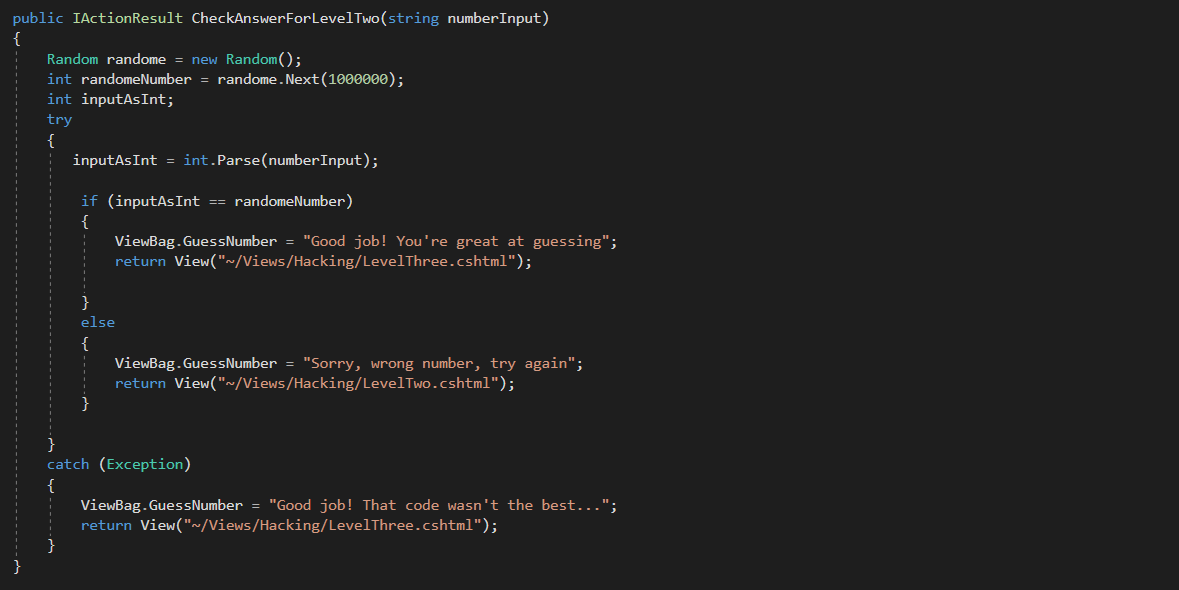
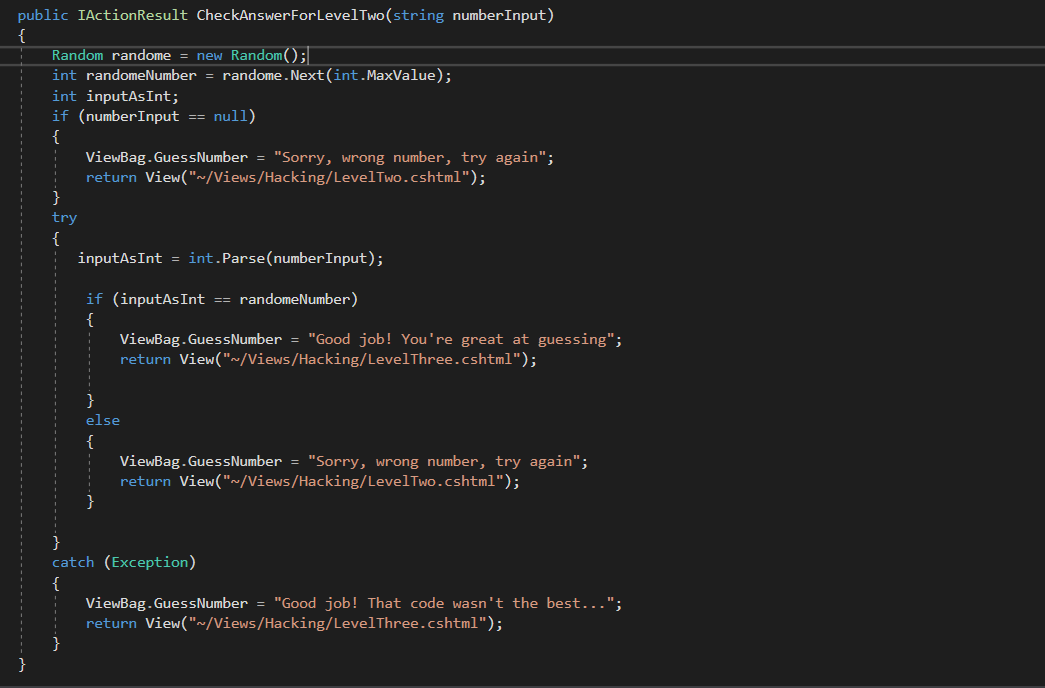
Now with hints

diff --git a/HackingTheWeb/HackingTheWeb/Controllers/HackingController.cs b/HackingTheWeb/HackingTheWeb/Controllers/HackingController.cs
@@ -24,31 +24,32 @@ namespace HackingTheWeb.Controllers
             Login baseLogin = new Login
             {
                 Username = "Admin",
-                Password = password.ToString()
+                SecretPassWord = password.ToString()
             };
             _repo.UpdateDatabaseWithNewPassword(baseLogin);
             _repo.SeedLevelThreePassword();
+
             return View();
         }
 
         [ValidateAntiForgeryToken]
-        public IActionResult CheckPassword(string password)
+        public IActionResult CheckPassword(string SecretPassWord)
         {
             string correctPassword = _repo.GetCorrectPassword();
-            if (password == correctPassword)
+            if (SecretPassWord == correctPassword)
             {
                 return View("~/Views/Hacking/LevelTwo.cshtml");
             }
 
-            Login newLogin = _repo.CheckIfPasswordIsCorrect(password);
+            Login newLogin = _repo.CheckIfPasswordIsCorrect(SecretPassWord);
 
-            if (newLogin.Password == null)
+            if (newLogin.SecretPassWord == null)
             {
                 ViewBag.LoginInfo = "Sorry, wrong password";
             }
             else
             {
-                ViewBag.LoginInfo = $"Good job! here's your reward, the password: {newLogin.Password} ";
+                ViewBag.LoginInfo = $"Good job! here's your reward, the password: {newLogin.SecretPassWord} ";
             }
             return View("~/Views/Hacking/LevelOne.cshtml");
         }
@@ -61,8 +62,13 @@ namespace HackingTheWeb.Controllers
         public IActionResult CheckAnswerForLevelTwo(string numberInput)
         {
             Random randome = new Random();
-            int randomeNumber = randome.Next(1000000);
+            int randomeNumber = randome.Next(int.MaxValue);
             int inputAsInt;
+            if (numberInput == null)
+            {
+                ViewBag.GuessNumber = "Sorry, wrong number, try again";
+                return View("~/Views/Hacking/LevelTwo.cshtml");
+            }
             try
             {
                inputAsInt = int.Parse(numberInput);
@@ -94,7 +100,12 @@ namespace HackingTheWeb.Controllers
 
         public IActionResult LevelThreePassCheck(string password)
         {
-            if (password == _repo.CheckLevelThreePassword())
+            if (password == null)
+            {
+                ViewBag.LevelThree = "Sorry, wrong password";
+                return View("~/Views/Hacking/LevelThree.cshtml");
+            }
+            if (password.ToUpper() == _repo.CheckLevelThreePassword().ToUpper())
             {
                 return View("~/Views/Hacking/LevelFour.cshtml");
             }
@@ -110,6 +121,26 @@ namespace HackingTheWeb.Controllers
             return View();
         }
 
+        public IActionResult LevelFourPassCheck(string passForLevelFour)
+        {
+            if (passForLevelFour == "GoToNextLevel")
+            {
+                return View("~/Views/Hacking/LevelFive.cshtml");
+
+            }
+            else
+            {
+                ViewBag.LevelFour = "Sorry, wrong password";
+                return View("~/Views/Hacking/LevelFour.cshtml");
+
+            }
+
+        }
+
+        public IActionResult LevelFive()
+        {
+            return View();
+        }
 
     }
 }

diff --git a/HackingTheWeb/HackingTheWeb/Services/HackingRepository.cs b/HackingTheWeb/HackingTheWeb/Services/HackingRepository.cs
@@ -38,12 +38,12 @@ namespace HackingTheWeb.Services
 
         }
 
-        public Login CheckIfPasswordIsCorrect(string password)
+        public Login CheckIfPasswordIsCorrect(string SecretPassWord)
         {
             Login login = new Login();
             try
             {
-                string Sql = $"select* from Login WHERE Username = 'Admin' and Password = {password}";
+                string Sql = $"select* from Login WHERE Username = 'Admin' and SecretPassWord = {SecretPassWord}";
                 using (SqlConnection connection = new SqlConnection(conString))
                 using (SqlCommand command = new SqlCommand(Sql, connection))
                 {
@@ -52,7 +52,7 @@ namespace HackingTheWeb.Services
                     if (reader.Read())
                     {
                         login.Username = reader.GetSqlString(0).Value;
-                        login.Password = reader.GetSqlString(1).Value;
+                        login.SecretPassWord = reader.GetSqlString(1).Value;
                     }
                 }
                 return login;
@@ -66,7 +66,7 @@ namespace HackingTheWeb.Services
 
         public string GetCorrectPassword()
         {
-            return _context.Login.SingleOrDefault().Password;
+            return _context.Login.SingleOrDefault().SecretPassWord;
         }
 
         public void SeedLevelThreePassword()
@@ -87,6 +87,7 @@ namespace HackingTheWeb.Services
             LevelThree correctLevelThree = _context.LevelThree.FirstOrDefault();
             return correctLevelThree.PassWord;
         }
+
 
     }
 }

diff --git a/HackingTheWeb/HackingTheWeb/Migrations/20190429082239_changedLoginClass.cs b/HackingTheWeb/HackingTheWeb/Migrations/20190429082239_changedLoginClass.cs
@@ -1,0 +1,37 @@
+using Microsoft.EntityFrameworkCore.Migrations;
+
+namespace HackingTheWeb.Migrations
+{
+    public partial class changedLoginClass : Migration
+    {
+        protected override void Up(MigrationBuilder migrationBuilder)
+        {
+            migrationBuilder.RenameColumn(
+                name: "Password",
+                table: "Login",
+                newName: "SecretPassWord");
+
+            migrationBuilder.CreateTable(
+                name: "LevelFour",
+                columns: table => new
+                {
+                    passForLevelFour = table.Column<string>(nullable: false)
+                },
+                constraints: table =>
+                {
+                    table.PrimaryKey("PK_LevelFour", x => x.passForLevelFour);
+                });
+        }
+
+        protected override void Down(MigrationBuilder migrationBuilder)
+        {
+            migrationBuilder.DropTable(
+                name: "LevelFour");
+
+            migrationBuilder.RenameColumn(
+                name: "SecretPassWord",
+                table: "Login",
+                newName: "Password");
+        }
+    }
+}

diff --git a/HackingTheWeb/HackingTheWeb/Migrations/20190429082239_changedLoginClass.Designer.cs b/HackingTheWeb/HackingTheWeb/Migrations/20190429082239_changedLoginClass.Designer.cs
@@ -4,14 +4,16 @@ using HackingTheWeb.Data;
 using Microsoft.EntityFrameworkCore;
 using Microsoft.EntityFrameworkCore.Infrastructure;
 using Microsoft.EntityFrameworkCore.Metadata;
+using Microsoft.EntityFrameworkCore.Migrations;
 using Microsoft.EntityFrameworkCore.Storage.ValueConversion;
 
 namespace HackingTheWeb.Migrations
 {
     [DbContext(typeof(ApplicationDbContext))]
-    partial class ApplicationDbContextModelSnapshot : ModelSnapshot
+    [Migration("20190429082239_changedLoginClass")]
+    partial class changedLoginClass
     {
-        protected override void BuildModel(ModelBuilder modelBuilder)
+        protected override void BuildTargetModel(ModelBuilder modelBuilder)
         {
 #pragma warning disable 612, 618
             modelBuilder

diff --git a/HackingTheWeb/HackingTheWeb/Models/LevelFour.cs b/HackingTheWeb/HackingTheWeb/Models/LevelFour.cs
@@ -6,11 +6,10 @@ using System.Threading.Tasks;
 
 namespace HackingTheWeb.Models
 {
-    public class Login
+    public class LevelFour
     {
         [Key]
-        public string Username { get; set; }
         [Display(Name = "Password")]
-        public string SecretPassWord { get; set; }
+        public string passForLevelFour { get; set; }
     }
 }

diff --git a/HackingTheWeb/HackingTheWeb/Data/ApplicationDbContext.cs b/HackingTheWeb/HackingTheWeb/Data/ApplicationDbContext.cs
@@ -16,6 +16,8 @@ namespace HackingTheWeb.Data
         }
         public DbSet<Login> Login { get; set; }
         public DbSet<LevelThree> LevelThree { get; set; }
+        public DbSet<LevelFour> LevelFour { get; set; }
+
 
     }
 }
